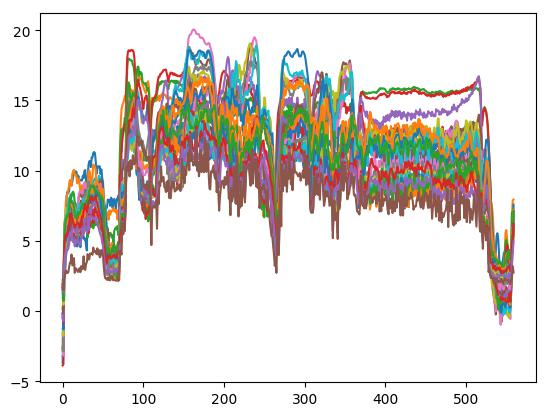
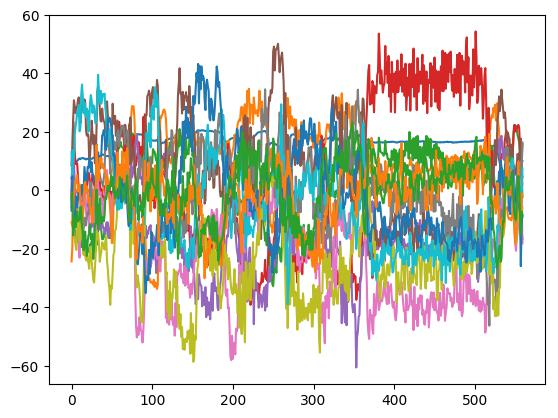
Fixing silly bug lol

diff --git a/tools/verse_downloader.py b/tools/verse_downloader.py
@@ -61,17 +61,17 @@ def create_mfcc(urls, isTrainingSet):
 			os.system("mkdir -p "+folder_target)
 			print "[+] "+t+" progress: "+str(reciter)+"-"+"{0:0=3d}".format(ayah)
 			
-			#(rate,sig) = wav.read("../audio/"+t+"/"+str(reciter)+"/"+"{0:0=3d}".format(surah)+"{0:0=3d}".format(ayah)+".mp3.wav")
-			#mfcc_feat = mfcc(sig,rate,nfft=1024)
-			#fig = plt.figure()
-			#plt.plot(mfcc_feat)
+			(rate,sig) = wav.read("../audio/"+t+"/"+str(reciter)+"/"+"{0:0=3d}".format(surah)+"{0:0=3d}".format(ayah)+".mp3.wav")
+			mfcc_feat = mfcc(sig,rate,nfft=1024)
+			fig = plt.figure()
+			plt.plot(mfcc_feat)
 
 			#Change library, using librosa tonnetz
-			y, sr = librosa.load("../audio/"+t+"/"+str(reciter)+"/"+"{0:0=3d}".format(surah)+"{0:0=3d}".format(ayah)+".mp3.wav")
-			y = librosa.effects.harmonic(y)
-			tonnetz = librosa.feature.tonnetz(y=y, sr=sr)
-			fig = plt.figure()
-			plt.plot(tonnetz)
+			#y, sr = librosa.load("../audio/"+t+"/"+str(reciter)+"/"+"{0:0=3d}".format(surah)+"{0:0=3d}".format(ayah)+".mp3.wav")
+			#y = librosa.effects.harmonic(y)
+			#tonnetz = librosa.feature.tonnetz(y=y, sr=sr)
+			#fig = plt.figure()
+			#plt.plot(tonnetz)
 
 			imagename = folder_target+str(ayah)+"."+str(reciter)
 
@@ -83,60 +83,60 @@ def create_mfcc(urls, isTrainingSet):
 			plt.close()
 
 url_trains =	[
-		#"http://www.everyayah.com/data/Abdul_Basit_Mujawwad_128kbps/zips/",
-		#"http://www.everyayah.com/data/Abdullaah_3awwaad_Al-Juhaynee_128kbps/zips/",
-		#"http://www.everyayah.com/data/Abdullah_Basfar_192kbps/zips/",
-		#"http://www.everyayah.com/data/Abdullah_Matroud_128kbps/zips/",
-		#"http://www.everyayah.com/data/Abdurrahmaan_As-Sudais_192kbps/zips/",
-		#"http://www.everyayah.com/data/Abu_Bakr_Ash-Shaatree_128kbps/zips/",
-		#"http://www.everyayah.com/data/Ahmed_Neana_128kbps/zips/",
-		#"http://www.everyayah.com/data/Ahmed_ibn_Ali_al-Ajamy_128kbps_ketaballah.net/zips/",
-		#"http://www.everyayah.com/data/Akram_AlAlaqimy_128kbps/zips/",
+		"http://www.everyayah.com/data/Abdul_Basit_Mujawwad_128kbps/zips/",
+		"http://www.everyayah.com/data/Abdullaah_3awwaad_Al-Juhaynee_128kbps/zips/",
+		"http://www.everyayah.com/data/Abdullah_Basfar_192kbps/zips/",
+		"http://www.everyayah.com/data/Abdullah_Matroud_128kbps/zips/",
+		"http://www.everyayah.com/data/Abdurrahmaan_As-Sudais_192kbps/zips/",
+		"http://www.everyayah.com/data/Abu_Bakr_Ash-Shaatree_128kbps/zips/",
+		"http://www.everyayah.com/data/Ahmed_Neana_128kbps/zips/",
+		"http://www.everyayah.com/data/Ahmed_ibn_Ali_al-Ajamy_128kbps_ketaballah.net/zips/",
+		"http://www.everyayah.com/data/Akram_AlAlaqimy_128kbps/zips/",
 		"http://www.everyayah.com/data/Alafasy_128kbps/zips/",
-		#"http://www.everyayah.com/data/Ali_Hajjaj_AlSuesy_128kbps/zips/",
-		#"http://www.everyayah.com/data/Ali_Jaber_64kbps/zips/",
-		#"http://www.everyayah.com/data/Fares_Abbad_64kbps/zips/",
-		#"http://www.everyayah.com/data/Ghamadi_40kbps/zips/",
-		#"http://www.everyayah.com/data/Hani_Rifai_192kbps/zips/",
-		#"http://www.everyayah.com/data/Hudhaify_128kbps/zips/",
-		#"http://www.everyayah.com/data/Husary_128kbps/zips/",
-		#"http://www.everyayah.com/data/Husary_Muallim_128kbps/zips/",
-		#"http://www.everyayah.com/data/Husary_Mujawwad_64kbps/zips/",
-		#"http://www.everyayah.com/data/Karim_Mansoori_40kbps/zips/",
-		#"http://www.everyayah.com/data/Khaalid_Abdullaah_al-Qahtaanee_192kbps/zips/",
-		#"http://www.everyayah.com/data/MaherAlMuaiqly128kbps/zips/",
-		#"http://www.everyayah.com/data/Menshawi_16kbps/zips/",
-		#"http://www.everyayah.com/data/Muhammad_AbdulKareem_128kbps/zips/",
-		#"http://www.everyayah.com/data/Muhammad_Ayyoub_128kbps/zips/",
-		#"http://www.everyayah.com/data/Muhammad_Jibreel_64kbps/zips/",
-		#"http://www.everyayah.com/data/Muhsin_Al_Qasim_192kbps/zips/",
-		#"http://www.everyayah.com/data/Nasser_Alqatami_128kbps/zips/",
-		#"http://www.everyayah.com/data/Sahl_Yassin_128kbps/zips/",
-		#"http://www.everyayah.com/data/Salaah_AbdulRahman_Bukhatir_128kbps/zips/",
-		#"http://www.everyayah.com/data/Salah_Al_Budair_128kbps/zips/",
-		#"http://www.everyayah.com/data/Yaser_Salamah_128kbps/zips/",
-		#"http://www.everyayah.com/data/aziz_alili_128kbps/zips/",
-		#"http://www.everyayah.com/data/Hudhaify_32kbps/zips/",
-		#"http://www.everyayah.com/data/ahmed_ibn_ali_al_ajamy_128kbps/zips/",
-		#"http://www.everyayah.com/data/Yasser_Ad-Dussary_128kbps/zips/",
-		#"http://www.everyayah.com/data/mahmoud_ali_al_banna_32kbps/zips/",
-		#"http://www.everyayah.com/data/khalefa_al_tunaiji_64kbps/zips/",
+		"http://www.everyayah.com/data/Ali_Hajjaj_AlSuesy_128kbps/zips/",
+		"http://www.everyayah.com/data/Ali_Jaber_64kbps/zips/",
+		"http://www.everyayah.com/data/Fares_Abbad_64kbps/zips/",
+		"http://www.everyayah.com/data/Ghamadi_40kbps/zips/",
+		"http://www.everyayah.com/data/Hani_Rifai_192kbps/zips/",
+		"http://www.everyayah.com/data/Hudhaify_128kbps/zips/",
+		"http://www.everyayah.com/data/Husary_128kbps/zips/",
+		"http://www.everyayah.com/data/Husary_Muallim_128kbps/zips/",
+		"http://www.everyayah.com/data/Husary_Mujawwad_64kbps/zips/",
+		"http://www.everyayah.com/data/Karim_Mansoori_40kbps/zips/",
+		"http://www.everyayah.com/data/Khaalid_Abdullaah_al-Qahtaanee_192kbps/zips/",
+		"http://www.everyayah.com/data/MaherAlMuaiqly128kbps/zips/",
+		"http://www.everyayah.com/data/Menshawi_16kbps/zips/",
+		"http://www.everyayah.com/data/Muhammad_AbdulKareem_128kbps/zips/",
+		"http://www.everyayah.com/data/Muhammad_Ayyoub_128kbps/zips/",
+		"http://www.everyayah.com/data/Muhammad_Jibreel_64kbps/zips/",
+		"http://www.everyayah.com/data/Muhsin_Al_Qasim_192kbps/zips/",
+		"http://www.everyayah.com/data/Nasser_Alqatami_128kbps/zips/",
+		"http://www.everyayah.com/data/Sahl_Yassin_128kbps/zips/",
+		"http://www.everyayah.com/data/Salaah_AbdulRahman_Bukhatir_128kbps/zips/",
+		"http://www.everyayah.com/data/Salah_Al_Budair_128kbps/zips/",
+		"http://www.everyayah.com/data/Yaser_Salamah_128kbps/zips/",
+		"http://www.everyayah.com/data/aziz_alili_128kbps/zips/",
+		"http://www.everyayah.com/data/Hudhaify_32kbps/zips/",
+		"http://www.everyayah.com/data/ahmed_ibn_ali_al_ajamy_128kbps/zips/",
+		"http://www.everyayah.com/data/Yasser_Ad-Dussary_128kbps/zips/",
+		"http://www.everyayah.com/data/mahmoud_ali_al_banna_32kbps/zips/",
+		"http://www.everyayah.com/data/khalefa_al_tunaiji_64kbps/zips/",
 			]
 
 url_tests = [
-		#"http://www.everyayah.com/data/Abdul_Basit_Murattal_64kbps/zips/",
-		#"http://www.everyayah.com/data/Abdullah_Basfar_64kbps/zips/",
-		#"http://www.everyayah.com/data/Abdurrahmaan_As-Sudais_64kbps/zips/",
-		#"http://www.everyayah.com/data/Abu_Bakr_Ash-Shaatree_64kbps/zips/",
-		#"http://www.everyayah.com/data/Ahmed_ibn_Ali_al-Ajamy_64kbps_QuranExplorer.Com/zips/",
+		"http://www.everyayah.com/data/Abdul_Basit_Murattal_64kbps/zips/",
+		"http://www.everyayah.com/data/Abdullah_Basfar_64kbps/zips/",
+		"http://www.everyayah.com/data/Abdurrahmaan_As-Sudais_64kbps/zips/",
+		"http://www.everyayah.com/data/Abu_Bakr_Ash-Shaatree_64kbps/zips/",
+		"http://www.everyayah.com/data/Ahmed_ibn_Ali_al-Ajamy_64kbps_QuranExplorer.Com/zips/",
 		"http://www.everyayah.com/data/Alafasy_64kbps/zips/",
-		#"http://www.everyayah.com/data/Hani_Rifai_64kbps/zips/",
-		#"http://www.everyayah.com/data/Hudhaify_64kbps/zips/",
-		#"http://www.everyayah.com/data/Husary_64kbps/zips/",
-		#"http://www.everyayah.com/data/Maher_AlMuaiqly_64kbps/zips/",
-		#"http://www.everyayah.com/data/Mohammad_al_Tablaway_64kbps/zips/",
-		#"http://www.everyayah.com/data/Muhammad_Jibreel_64kbps/zips/",
-		#"http://www.everyayah.com/data/Saood_ash-Shuraym_64kbps/zips/",
+		"http://www.everyayah.com/data/Hani_Rifai_64kbps/zips/",
+		"http://www.everyayah.com/data/Hudhaify_64kbps/zips/",
+		"http://www.everyayah.com/data/Husary_64kbps/zips/",
+		"http://www.everyayah.com/data/Maher_AlMuaiqly_64kbps/zips/",
+		"http://www.everyayah.com/data/Mohammad_al_Tablaway_64kbps/zips/",
+		"http://www.everyayah.com/data/Muhammad_Jibreel_64kbps/zips/",
+		"http://www.everyayah.com/data/Saood_ash-Shuraym_64kbps/zips/",
 	]
 
 download(url_trains, True)

diff --git a/model/cnn.py b/model/cnn.py
@@ -46,7 +46,7 @@ classifier.add(Dense(units = 128, activation = 'relu'))
 classifier.add(Dense(units = 1, activation = 'sigmoid'))
 
 # Compiling the CNN
-classifier.compile(optimizer = 'adam', loss = 'binary_crossentropy', metrics = ['accuracy'])
+classifier.compile(optimizer = 'adam', loss = 'categorical_crossentropy', metrics = ['accuracy'])
 
 # Part 2 - Fitting the CNN to the images
 
@@ -61,13 +61,13 @@ test_datagen = ImageDataGenerator(rescale = 1./255)
 
 training_set = train_datagen.flow_from_directory('../dataset/training_set',
                                                  target_size = (size_l, size_h),
-                                                 batch_size = 32,
-                                                 class_mode = 'binary')
+                                                 batch_size = 7,
+                                                 class_mode = 'categorical')
 
 test_set = test_datagen.flow_from_directory('../dataset/test_set',
                                             target_size = (size_l, size_h),
-                                            batch_size = 32,
-                                            class_mode = 'binary')
+                                            batch_size = 7,
+                                            class_mode = 'categorical')
 
 classifier.fit_generator(training_set,
                          steps_per_epoch = 8000,
@@ -78,7 +78,7 @@ classifier.fit_generator(training_set,
 # Part 3 - Making new predictions
 import numpy as np
 from keras.preprocessing import image
-test_image = image.load_img('../testing/test.jpg', target_size = (size_l, size_h))
+test_image = image.load_img('../testing/test.wav.jpg', target_size = (size_l, size_h))
 test_image = image.img_to_array(test_image)
 test_image = np.expand_dims(test_image, axis = 0)
 result = classifier.predict(test_image)

diff --git a/testing/convert.py b/testing/convert.py
@@ -20,10 +20,10 @@ FILENAME = "test.wav"
 # ffmpeg -i test.ogg -ar 22050 FILENAME
 
 # using python_speech lib
-#(rate,sig) = wav.read(FILENAME)
-#mfcc_feat = mfcc(sig,rate,nfft=1024)
-#fig = plt.figure()
-#plt.plot(mfcc_feat)
+(rate,sig) = wav.read(FILENAME)
+mfcc_feat = mfcc(sig,rate,nfft=1024)
+fig = plt.figure()
+plt.plot(mfcc_feat)
 
 #using librosa lib
 #hop_length = 512
@@ -37,10 +37,10 @@ FILENAME = "test.wav"
 #beat_chroma = librosa.util.sync(chromagram,beat_frames,aggregate=np.median)
 #music_graph = np.vstack([beat_chroma, beat_mfcc_delta])
 
-(rate,sig) = wav.read(FILENAME)
-fbank_feat = logfbank(sig,rate,nfft=1024)
-fig = plt.figure()
-plt.plot(fbank_feat)
+#(rate,sig) = wav.read(FILENAME)
+#fbank_feat = logfbank(sig,rate,nfft=1024)
+#fig = plt.figure()
+#plt.plot(fbank_feat)
 
 imagename = FILENAME
 
